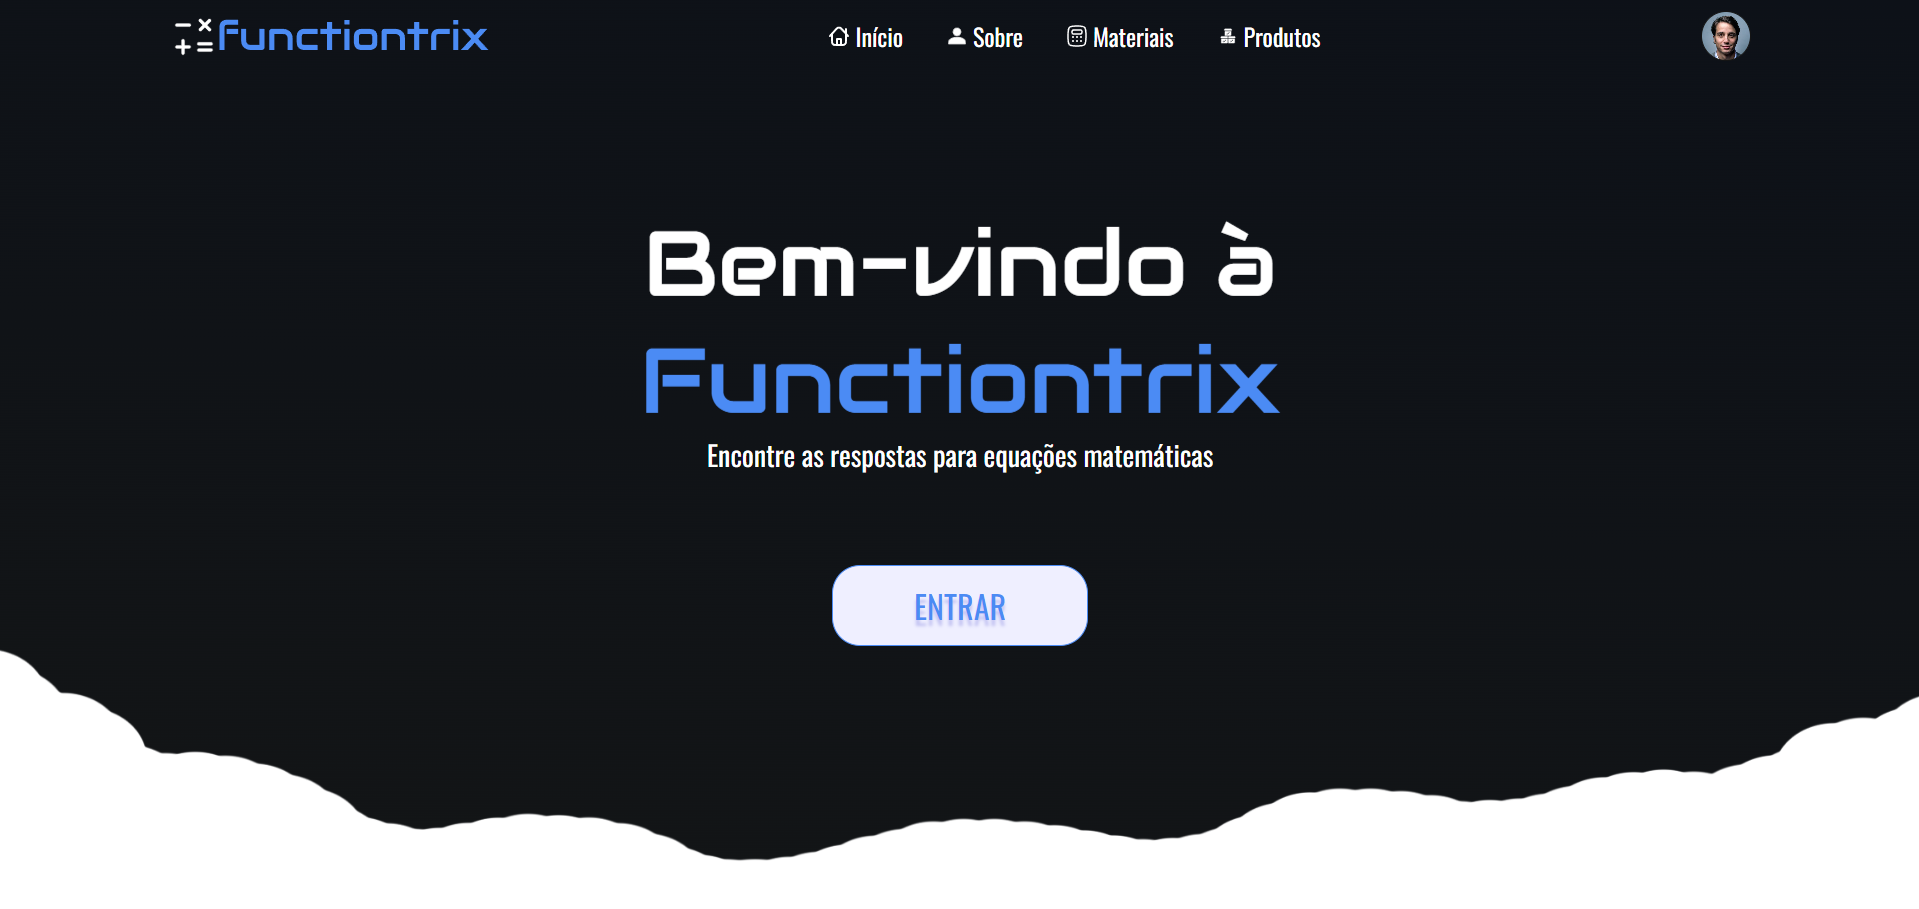
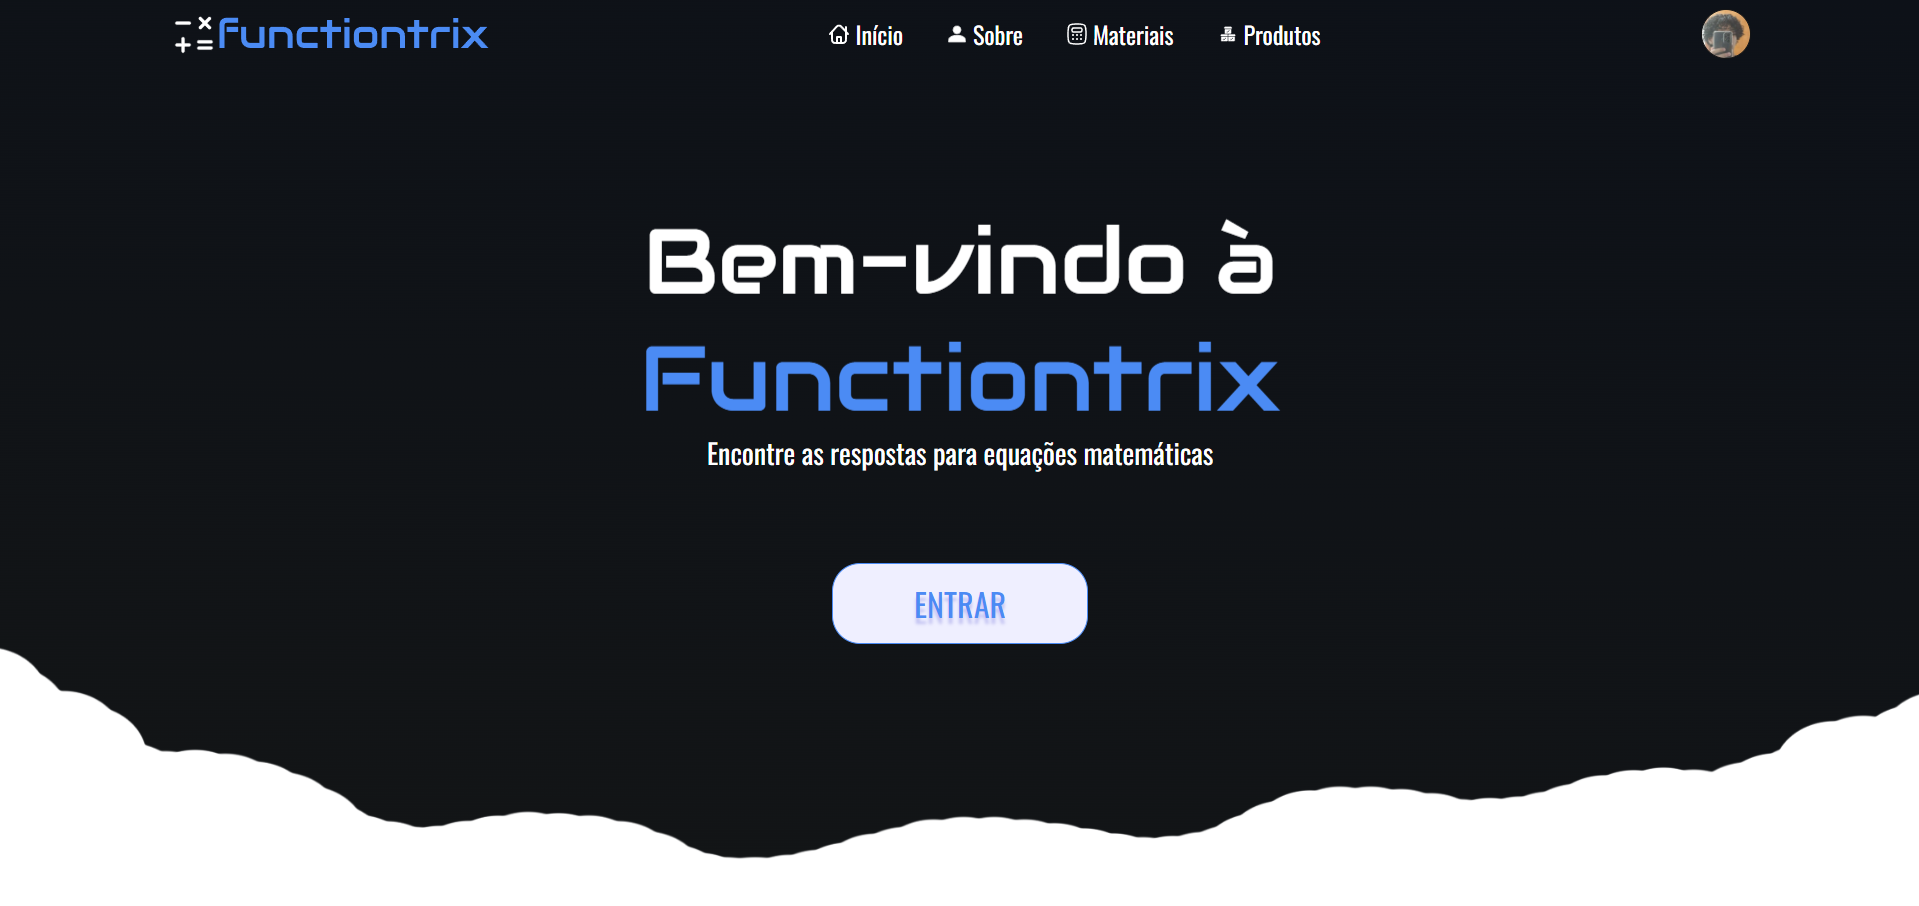
readme atualizado

diff --git a/QuemSomos.html b/QuemSomos.html
@@ -65,7 +65,7 @@
         <div class="QS-nomes">
             <p>Lucas Nascimento</p>
         </div>
-        <img src="img/equipe.jpg" width="512px" height="512px">
+        <img src="img/lucasns06.jpg" width="512px" height="512px">
     </div> <br><br><br><br><br><br><br> <br>
 
         <p class="QS-titulo">Nossos produtos</p> <br><br> <br> <br>

diff --git a/README.md b/README.md
@@ -3,4 +3,6 @@
 - Site feito no primeiro módulo do curso de Desenvolvimento de Sistemas
 <img src="img\ReadmeImagens\tela_inicial.png">
 
+<h1 align="center">Produtos</h1>
 
+<img src="img\ReadmeImagens\produtos.png">
